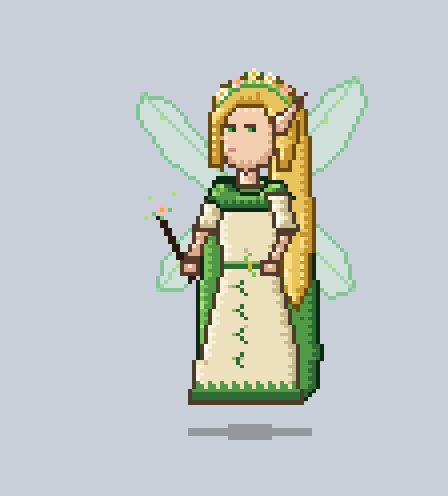
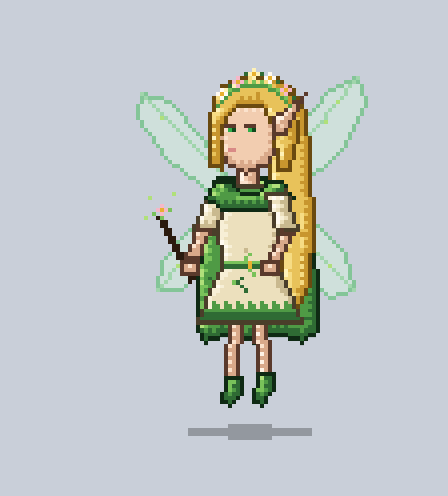
[Elf] Faelis: short dress, bare legs and leaf slippers dangling as she hovers

Changed region(s): [[0.4062, 0.4839, 0.75, 0.8165], [0.6875, 0.5444, 0.7188, 0.5746]]

diff --git a/Glitch/Elf.swift b/Glitch/Elf.swift
@@ -1,7 +1,7 @@
 import SwiftUI
 
 /// Faelis, the fairy elf queen (Character 3). It shares the brain (breathing, blinking, drag, gravity) with the others
-/// and hovers like Wizzy, with sheer wings behind and a small blossom wand (sprites from Tools/make_elf.py).
+/// and hovers on sheer wings, bare legs under a short dress, holding a small blossom wand (sprites from Tools/make_elf.py).
 enum Elf {
     static let id = "elf"
     static var isSelected: Bool { Prefs.d.string(forKey: Prefs.character) == id }
@@ -12,7 +12,7 @@ enum Elf {
     private static let shadow = Sprite.loadShared("elf_shadow")
     /// Click area: every part at rest, raised by the 2 px she hovers on average.
     static let hitMask: [Bool] = Sprite.coverage(
-        [set.cape, set.tunic, set.cloak, set.armFarUpper, set.armFarFore, set.armNearUpper, set.armNearFore,
+        [set.cape, set.shinL, set.footL, set.shinR, set.footR, set.tunic, set.cloak, set.armFarUpper, set.armFarFore, set.armNearUpper, set.armNearFore,
          set.head, wings, wand].map { ($0, CGPoint(x: 0, y: -2)) })
     static let hitBounds = Sprite.bounds(of: hitMask)
     private static let neck = CGPoint(x: 40, y: 33)
@@ -77,6 +77,10 @@ enum Elf {
         let flutter = 2.2 + 3 * pose.carriedAmount + 4 * pose.fallAmount
         put(wings, ctx, dy: breath * 0.6)
         rows(set.capeRows, ctx, amount: flutter, speed: 2 * .pi / 2.6)   // green cape and the long hair over it
+        // bare legs dangle under the short dress, swaying a pixel as she floats
+        let sway = (sin(t * 2 * .pi / 3.2 + 0.8) * 0.6 * grounded).rounded()
+        put(set.shinL, ctx, dx: sway); put(set.footL, ctx, dx: sway)
+        put(set.shinR, ctx, dx: -sway); put(set.footR, ctx, dx: -sway)
         rows(dressRows, ctx, amount: 1.4 + flutter * 0.4, speed: 2 * .pi / 1.8)
         put(set.armFarUpper, ctx, dy: breath * 0.5)
         put(wand, ctx, dy: breath * 0.4)

diff --git a/Tools/make_elf.py b/Tools/make_elf.py
@@ -113,13 +113,19 @@ def build():
     parts = {}
     os.makedirs(OUT, exist_ok=True)
 
-    # legs hidden under the long dress (she glides like Wizzy), no pauldrons, no sash
-    for n in ("thighL", "shinL", "footL", "thighR", "shinR", "footR", "pauldronFar", "pauldronNear", "sash"):
+    # thighs hidden under the short dress, no pauldrons, no sash
+    for n in ("thighL", "thighR", "pauldronFar", "pauldronNear", "sash"):
         parts[n] = combine(n)
 
+    # ------------------------------------------------------------------ legs: bare, slim, dangling as she hovers; leaf slippers
+    parts["shinL"] = combine("shinL", Layer("skin", [tl((37, 64), (36, 84), 3.4)], seed=51, grit=0.0))
+    parts["shinR"] = combine("shinR", Layer("skin", [tl((43, 64), (44, 83), 3.6)], seed=52, grit=0.0))
+    parts["footL"] = combine("footL", Layer("leaf", [[(34, 82), (38, 82), (38, 86), (35, 89), (33, 88)]], seed=53, grit=0.0))
+    parts["footR"] = combine("footR", Layer("leaf", [[(42, 81), (46, 81), (46, 85), (43, 89), (41, 88)]], seed=54, grit=0.0))
+
     # ------------------------------------------------------------------ back layer: green cape, long blonde hair over it
-    CAPE = [(32, 32), (50, 32), (55, 42), (57, 62), (58, 84), (54, 88), (48, 86), (42, 88), (36, 86), (30, 88),
-            (27, 86), (27, 66), (28, 48), (29, 38)]
+    CAPE = [(32, 32), (50, 32), (55, 42), (57, 58), (57, 70), (53, 73), (47, 71), (41, 73), (35, 71), (29, 73),
+            (27, 70), (27, 58), (28, 48), (29, 38)]
     HAIR = [(41, 8), (50, 9), (54, 15), (55, 28), (56, 44), (55, 58), (52, 65), (48, 60), (47, 44), (45, 30)]
 
     def cape_extra(im):
@@ -133,8 +139,7 @@ def build():
 
     # ------------------------------------------------------------------ dress: cream, green belt and leafy hem
     NECK = [(37, 27), (42, 27), (42, 36), (37, 36)]
-    DRESS = [(34, 34), (46, 34), (48, 44), (47, 54), (50, 66), (53, 80), (54, 88), (26, 88), (27, 80), (30, 66),
-             (33, 54), (32, 44)]
+    DRESS = [(34, 34), (46, 34), (48, 44), (47, 54), (50, 60), (53, 68), (27, 68), (30, 60), (33, 54), (32, 44)]
 
     def dress_extra(im):
         outline = RAMPS["cream"][0]
@@ -142,14 +147,14 @@ def build():
             for y in (53, 54):                                 # green belt
                 if im.getpixel((x, y))[3] and im.getpixel((x, y)) != outline:
                     im.putpixel((x, y), RAMPS["leaf"][3] if y == 53 else RAMPS["leaf"][1])
-            for y in range(83, 88):                            # hem: green band with a leaf edge
+            for y in range(63, 68):                            # hem: green band with a leaf edge
                 px = im.getpixel((x, y))
-                if px[3] and px != outline and (y > 84 or (y == 84 and x % 3) or (y == 83 and x % 3 == 1)):
-                    im.putpixel((x, y), RAMPS["leaf"][2] if y < 86 else RAMPS["leaf"][1])
+                if px[3] and px != outline and (y > 64 or (y == 64 and x % 3) or (y == 63 and x % 3 == 1)):
+                    im.putpixel((x, y), RAMPS["leaf"][2] if y < 66 else RAMPS["leaf"][1])
         put(im, [(39, 52), (40, 51), (40, 55), (41, 56)], RAMPS["leaf"][3])   # little leaves on the belt
         put(im, [(40, 53), (40, 54)], HEART)                                    # its gold clasp
         put(im, [(x, 35) for x in range(36, 44)], RAMPS["leaf"][2])             # green neckline trim
-        for y in range(58, 82, 6):                             # a thin vine down the skirt front
+        for y in (57,):                                        # a sprig of vine on the skirt front
             put(im, [(38, y), (37, y + 1), (38, y + 2), (39, y + 3)], RAMPS["leaf"][1])
             put(im, [(36, y + 1)], RAMPS["leaf"][3])
 
@@ -255,7 +260,7 @@ def build():
 NAMES = ["cape", "thighL", "shinL", "footL", "thighR", "shinR", "footR", "sash", "tunic", "cloak", "pauldronFar",
          "pauldronNear", "armFarUpper", "armFarFore", "armNearUpper", "armNearFore", "head", "wings", "wand", "shadow"] \
     + ["eyes_" + k for k in ("open", "closed", "half", "happy", "angry", "wide")]
-VISIBLE = ["cape", "tunic", "cloak", "head", "armFarUpper", "armFarFore", "armNearUpper", "armNearFore", "wings", "wand",
+VISIBLE = ["shinL", "shinR", "footL", "footR", "cape", "tunic", "cloak", "head", "armFarUpper", "armFarFore", "armNearUpper", "armNearFore", "wings", "wand",
            "eyes_open"]
 
 
@@ -281,7 +286,7 @@ if __name__ == "__main__":
         check()
         sys.exit()
     parts = build()
-    order = ["wings", "cape", "tunic", "armFarUpper", "wand", "armFarFore", "cloak", "head", "armNearUpper", "armNearFore"]
+    order = ["wings", "cape", "shinL", "shinR", "footL", "footR", "tunic", "armFarUpper", "wand", "armFarFore", "cloak", "head", "armNearUpper", "armNearFore"]
     canvas = Image.new("RGBA", (W, H), (0, 0, 0, 0))
     canvas.alpha_composite(parts["shadow"])
     for n in order:

diff --git a/docs/superpowers/specs/2026-10-19-elf-queen-design.md b/docs/superpowers/specs/2026-10-19-elf-queen-design.md
@@ -9,7 +9,7 @@ A third character that is the opposite of Vorn's gothic mood: bright, green, cal
 - Female elf queen, long blonde hair.
 - Crown woven from flowers (a few green leaves beside them: my call).
 - Green eyes.
-- Cream dress with green accents: hem, belt, cape (where the green goes: my call).
+- Short cream dress (to the knee) with green accents: hem, belt, short cape; bare legs and green leaf slippers, dangling as she hovers (user, 2026-10-19; hovering instead of walking: my call).
 - Slim, tall, pointed ears, noble and quiet, not chubby (my call, from Wizzy's "keep it fit" feedback).
 - Fairy-like, with two pairs of sheer green-tinted wings behind her; no tall staff; a small wand with a blossom tip in her far hand (user, 2026-10-19).
 - Green is the dominant colour of the whole figure and its effects.
